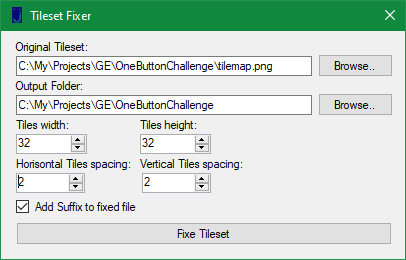
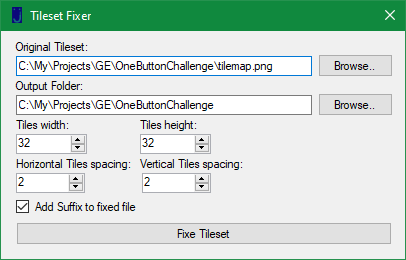
fix typo

Changed region(s): [[0.0296, 0.2769, 0.7685, 0.3077], [0.0296, 0.2154, 0.7685, 0.2462], [0.0591, 0.6154, 0.1182, 0.6462]]

diff --git a/TilesetFixer/Form1.Designer.cs b/TilesetFixer/Form1.Designer.cs
@@ -39,7 +39,7 @@
 			this.checkBox1 = new System.Windows.Forms.CheckBox();
 			this.openFileDialog1 = new System.Windows.Forms.OpenFileDialog();
 			this.folderBrowserDialog1 = new System.Windows.Forms.FolderBrowserDialog();
-			this.nud_HorisontalSpacing = new System.Windows.Forms.NumericUpDown();
+			this.nud_HorizontalSpacing = new System.Windows.Forms.NumericUpDown();
 			this.label3 = new System.Windows.Forms.Label();
 			this.label4 = new System.Windows.Forms.Label();
 			this.nud_width = new System.Windows.Forms.NumericUpDown();
@@ -48,7 +48,7 @@
 			this.label6 = new System.Windows.Forms.Label();
 			this.nud_VerticalSpacing = new System.Windows.Forms.NumericUpDown();
 			this.timer1 = new System.Windows.Forms.Timer(this.components);
-			((System.ComponentModel.ISupportInitialize)(this.nud_HorisontalSpacing)).BeginInit();
+			((System.ComponentModel.ISupportInitialize)(this.nud_HorizontalSpacing)).BeginInit();
 			((System.ComponentModel.ISupportInitialize)(this.nud_width)).BeginInit();
 			((System.ComponentModel.ISupportInitialize)(this.nud_height)).BeginInit();
 			((System.ComponentModel.ISupportInitialize)(this.nud_VerticalSpacing)).BeginInit();
@@ -134,11 +134,11 @@
 			// 
 			// nud_HorisontalSpacing
 			// 
-			this.nud_HorisontalSpacing.Location = new System.Drawing.Point(15, 142);
-			this.nud_HorisontalSpacing.Name = "nud_HorisontalSpacing";
-			this.nud_HorisontalSpacing.Size = new System.Drawing.Size(69, 20);
-			this.nud_HorisontalSpacing.TabIndex = 8;
-			this.nud_HorisontalSpacing.Value = new decimal(new int[] {
+			this.nud_HorizontalSpacing.Location = new System.Drawing.Point(15, 142);
+			this.nud_HorizontalSpacing.Name = "nud_HorisontalSpacing";
+			this.nud_HorizontalSpacing.Size = new System.Drawing.Size(69, 20);
+			this.nud_HorizontalSpacing.TabIndex = 8;
+			this.nud_HorizontalSpacing.Value = new decimal(new int[] {
             1,
             0,
             0,
@@ -202,7 +202,7 @@
 			this.label6.Name = "label6";
 			this.label6.Size = new System.Drawing.Size(122, 13);
 			this.label6.TabIndex = 15;
-			this.label6.Text = "Horisontal Tiles spacing:";
+			this.label6.Text = "Horizontal Tiles spacing:";
 			// 
 			// nud_VerticalSpacing
 			// 
@@ -235,7 +235,7 @@
 			this.Controls.Add(this.label4);
 			this.Controls.Add(this.nud_width);
 			this.Controls.Add(this.label3);
-			this.Controls.Add(this.nud_HorisontalSpacing);
+			this.Controls.Add(this.nud_HorizontalSpacing);
 			this.Controls.Add(this.checkBox1);
 			this.Controls.Add(this.button3);
 			this.Controls.Add(this.button2);
@@ -253,7 +253,7 @@
 			this.DragDrop += new System.Windows.Forms.DragEventHandler(this.Form1_DragDrop);
 			this.DragEnter += new System.Windows.Forms.DragEventHandler(this.Form1_DragEnter);
 			this.DragLeave += new System.EventHandler(this.Form1_DragLeave);
-			((System.ComponentModel.ISupportInitialize)(this.nud_HorisontalSpacing)).EndInit();
+			((System.ComponentModel.ISupportInitialize)(this.nud_HorizontalSpacing)).EndInit();
 			((System.ComponentModel.ISupportInitialize)(this.nud_width)).EndInit();
 			((System.ComponentModel.ISupportInitialize)(this.nud_height)).EndInit();
 			((System.ComponentModel.ISupportInitialize)(this.nud_VerticalSpacing)).EndInit();
@@ -274,7 +274,7 @@
 		private System.Windows.Forms.CheckBox checkBox1;
 		private System.Windows.Forms.OpenFileDialog openFileDialog1;
 		private System.Windows.Forms.FolderBrowserDialog folderBrowserDialog1;
-		private System.Windows.Forms.NumericUpDown nud_HorisontalSpacing;
+		private System.Windows.Forms.NumericUpDown nud_HorizontalSpacing;
 		private System.Windows.Forms.Label label3;
 		private System.Windows.Forms.Label label4;
 		private System.Windows.Forms.NumericUpDown nud_width;

diff --git a/TilesetFixer/Form1.cs b/TilesetFixer/Form1.cs
@@ -40,7 +40,7 @@ namespace TilesetFixer
 			public int Height = 32;
 
 			[JsonProperty("hor_spacing")]
-			public int HorisontalSpacing = 1;
+			public int HorizontalSpacing = 1;
 
 			[JsonProperty("ver_spacing")]
 			public int VerticalSpacing = 1;
@@ -81,7 +81,7 @@ namespace TilesetFixer
 					config = JsonConvert.DeserializeObject<Config>(File.ReadAllText(ConfigFile));
 				textBox2.Text = config.OutputPath;
 				checkBox1.Checked = config.AddSuffix;
-				nud_HorisontalSpacing.Value = config.HorisontalSpacing;
+				nud_HorizontalSpacing.Value = config.HorizontalSpacing;
 				nud_VerticalSpacing.Value = config.VerticalSpacing;
 				nud_width.Value = config.Width;
 				nud_height.Value = config.Height;
@@ -98,7 +98,7 @@ namespace TilesetFixer
 			{
 				config.OutputPath = textBox2.Text;
 				config.AddSuffix = checkBox1.Checked;
-				config.HorisontalSpacing = (int)nud_HorisontalSpacing.Value;
+				config.HorizontalSpacing = (int)nud_HorizontalSpacing.Value;
 				config.VerticalSpacing = (int)nud_VerticalSpacing.Value;
 				config.Width = (int)nud_width.Value;
 				config.Height = (int)nud_height.Value;
@@ -212,11 +212,11 @@ namespace TilesetFixer
 
 			var xSize = (int)Math.Ceiling(img.Width / (float)config.Width);
 			var ySize = (int)Math.Ceiling(img.Height / (float)config.Height);
-			var xHalfSpace = (int)Math.Ceiling((float)config.HorisontalSpacing / 2);
+			var xHalfSpace = (int)Math.Ceiling((float)config.HorizontalSpacing / 2);
 			var yHalfSpace = (int)Math.Ceiling((float)config.VerticalSpacing / 2);
 
 			var newImg = new Bitmap(
-				img.Width + ((xSize - 1) * config.HorisontalSpacing),
+				img.Width + ((xSize - 1) * config.HorizontalSpacing),
 				img.Height + ((ySize - 1) * config.VerticalSpacing),
 				_fixIamgeFormat(img.PixelFormat));
 
@@ -228,7 +228,7 @@ namespace TilesetFixer
 			{
 				for (int y = 0; y < ySize; y++)
 				{
-					var tileStartX = config.Width * x + config.HorisontalSpacing * x;
+					var tileStartX = config.Width * x + config.HorizontalSpacing * x;
 					var tileStartY = config.Height * y + config.VerticalSpacing * y;
 
 					newImgDev.DrawImage(img,
@@ -240,7 +240,7 @@ namespace TilesetFixer
 
 			for (int x = 0; x < xSize; x++)
 			{
-				var tileStartX = config.Width * x + config.HorisontalSpacing * x;
+				var tileStartX = config.Width * x + config.HorizontalSpacing * x;
 				var tileEndX = tileStartX + config.Width - 1;
 
 				hLines.Add(new LineAndCopies() { start = tileStartX - xHalfSpace, end = tileStartX - 1, line = tileStartX });
